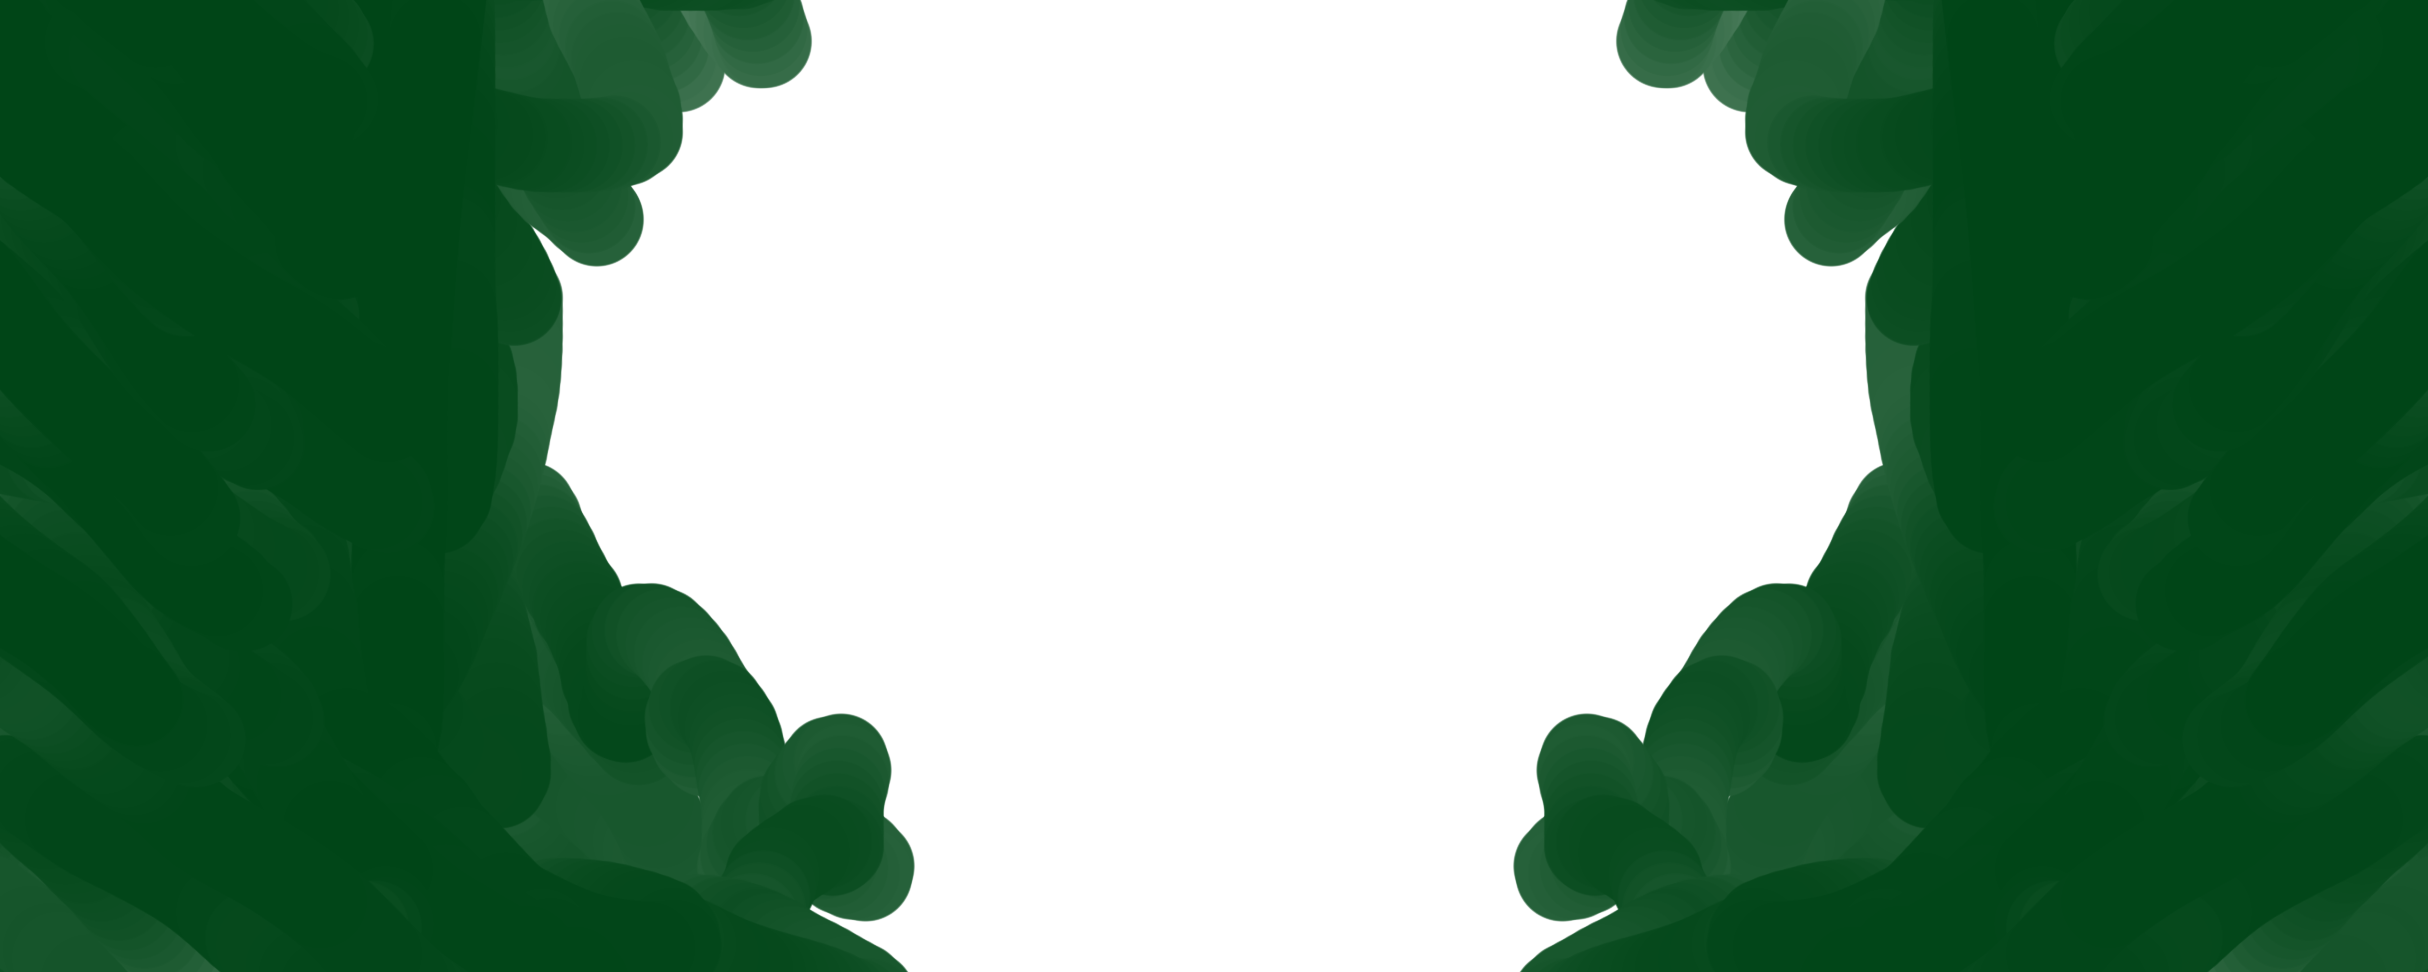
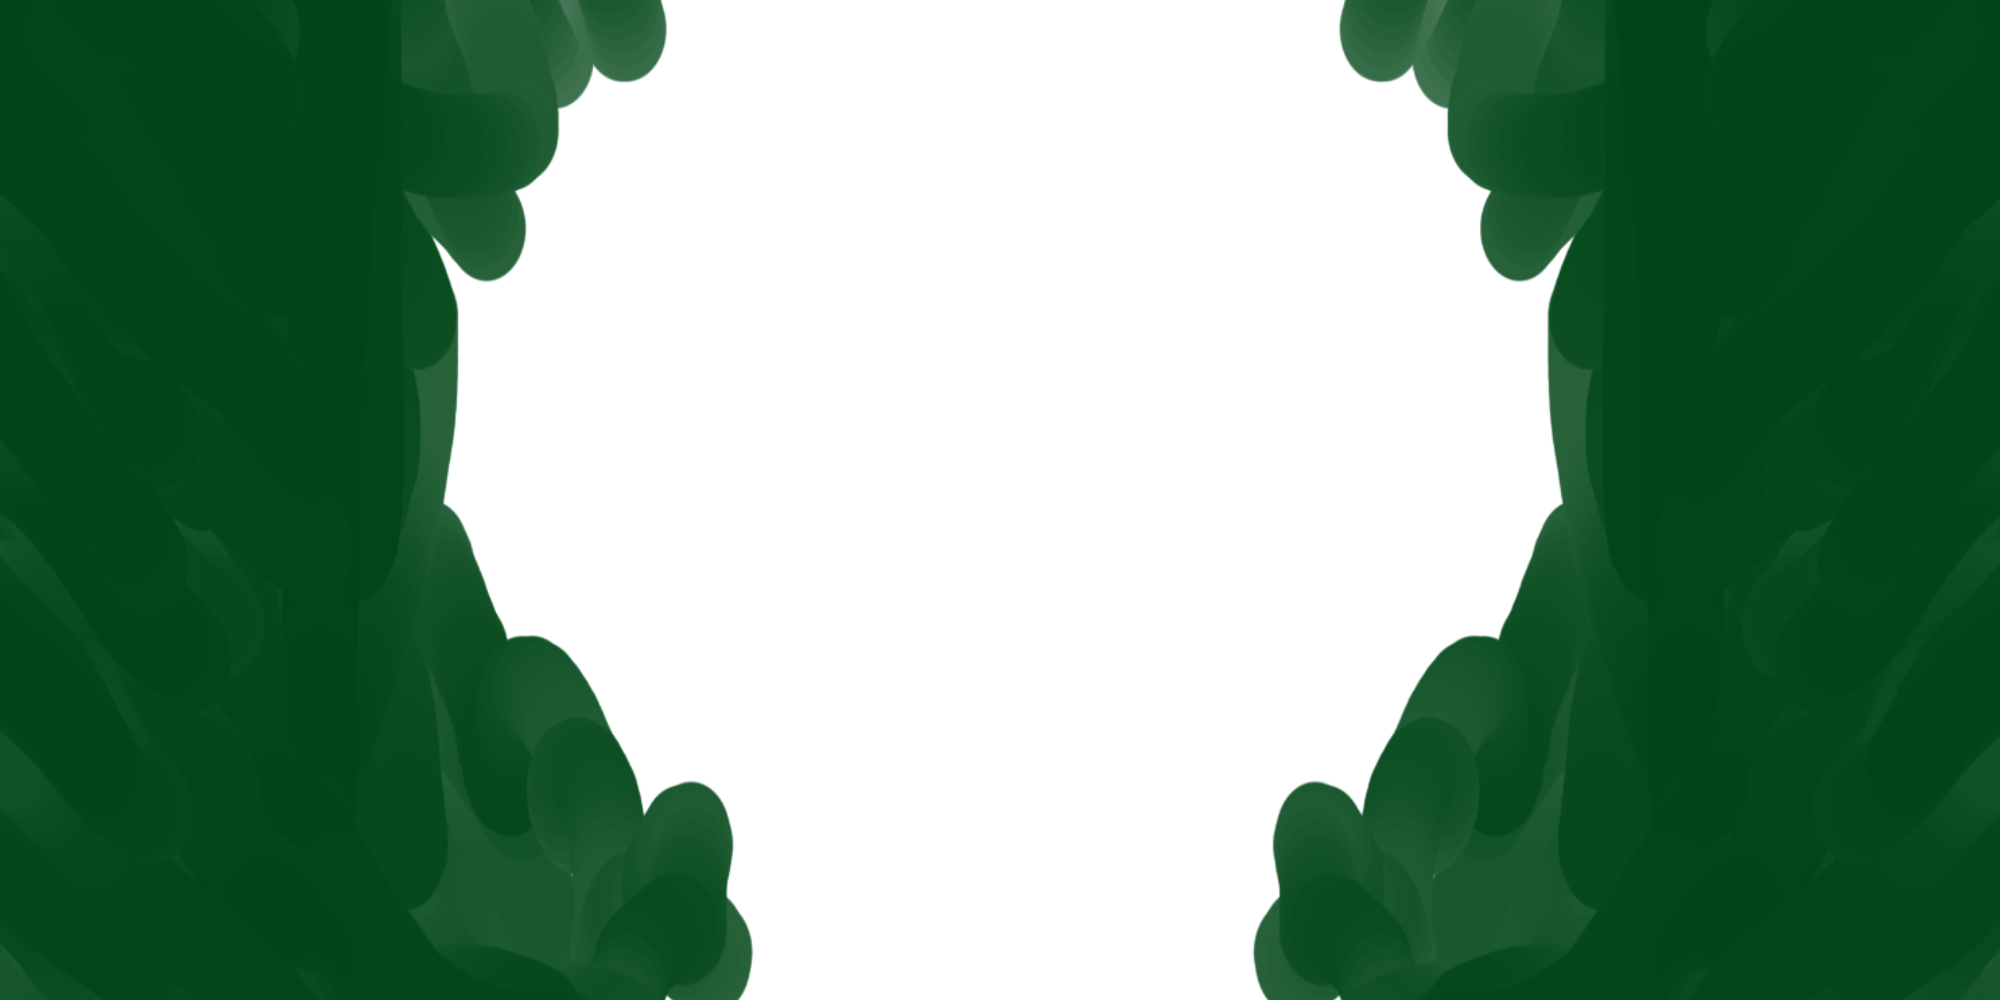
fix blank space to the left

diff --git a/index.html b/index.html
@@ -22,7 +22,7 @@ body {
     position: fixed;
 }
 
-.scene, .layer {
+.scene {
     display: block;
     height: 100%;
     width: 100%;
@@ -31,8 +31,7 @@ body {
 }
 
 .layer {
-    height: 100%;
-    width: 100%;
+
 }
 
 .scene {
@@ -43,10 +42,8 @@ body {
     left: 0;
     position: relative;
     margin: 0 auto;
-    width: 300%;
-    left: -100%;
-    height: 130%;
-    top: -10%;
+    width: 100%;
+    height: 100%;
 }
 
 .container {
@@ -58,26 +55,32 @@ body {
 }
 
 .image {
-    height: 100%;
-    width: 100%;
-    position: relative;
+    height: 120%;
+    width: 120%;
+
+	display: block;
 }
 
 /* Default styling for each layer */
 #image1 {
-
+	
 }
 
 #image2 {
-
+	position: relative;
+	top: -10%;
+	left: -10%;
 }
 
 #image3 {
-
+	position: relative;
+	top: 0;
+	left: -10%;
 }
 
 #image4 {
-
+	position: relative;
+	left: -10%;
 }
 
 #image5 {
@@ -96,11 +99,11 @@ body {
 <!--Parallax layers-->
 <div id="container" class="container">
     <ul id="scene" class="scene">
-        <li class="layer" data-depth="0.50"><div class="image"><image id="image5" src="images/0/5.png"></div></li>
-        <li class="layer" data-depth="0.60"><div class="image"><image id="image4" src="images/0/4.png"></div></li>
-        <li class="layer" data-depth="0.70"><div class="image"><image id="image3" src="images/0/3.png"></div></li>
-        <li class="layer" data-depth="0.80"><div class="image"><image id="image2" src="images/0/2.png"></div></li>
-        <li class="layer" data-depth="0.90"><div class="image"><image id="image1" src="images/0/1.png"></div></li>
+        <li class="layer" data-depth="0.50"><div class="image" id="image5"><image src="images/0/5.png"></div></li>
+        <li class="layer" data-depth="0.60"><div class="image" id="image4"><image src="images/0/4.png"></div></li>
+        <li class="layer" data-depth="0.70"><div class="image" id="image3"><image src="images/0/3.png"></div></li>
+        <li class="layer" data-depth="0.80"><div class="image" id="image2"><image src="images/0/2.png"></div></li>
+        <li class="layer" data-depth="0.90"><div class="image" id="image1"><image src="images/0/1.png"></div></li>
     </ul>
 </div>
 
